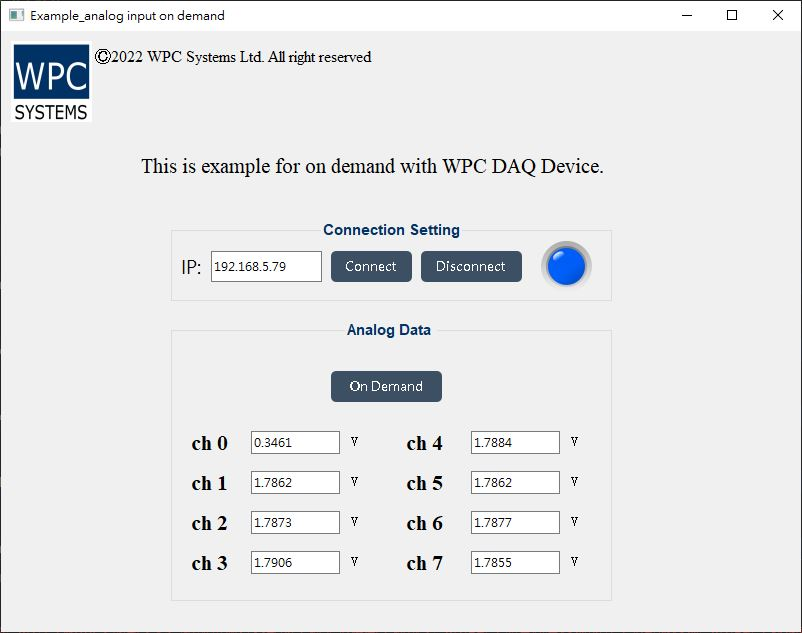
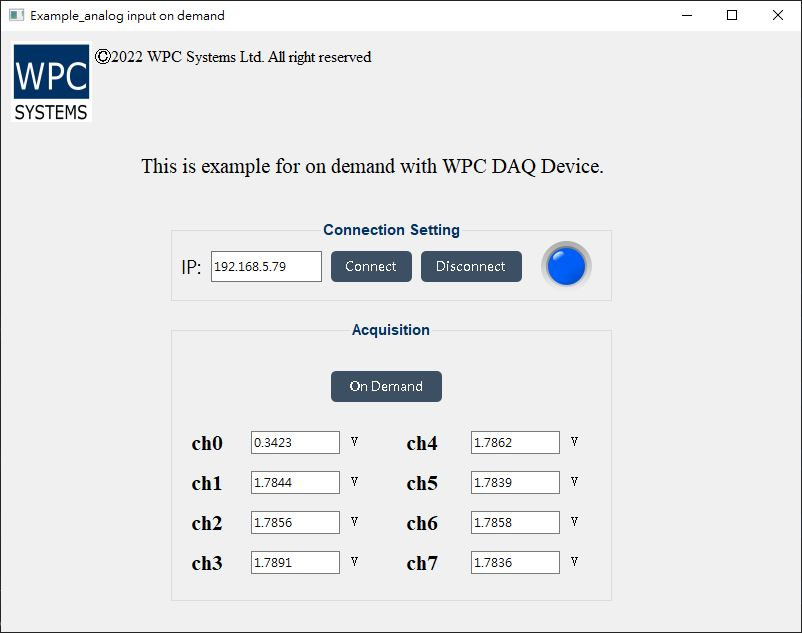
Update

diff --git a/Examples/GUI/AIO/Example_analog_input_on_demand/UI_design/Ui_example_GUI_AI_on_demand.py b/Examples/GUI/AIO/Example_analog_input_on_demand/UI_design/Ui_example_GUI_AI_on_demand.py
@@ -1113,14 +1113,14 @@ class Ui_MainWindow(object):
         self.btn_disconnect.setText(_translate("MainWindow", "Disconnect"))
         self.lb_rights.setText(_translate("MainWindow", " Ⓒ2022 WPC Systems Ltd. All right reserved"))
         self.lb_declare.setText(_translate("MainWindow", "This is example for on demand with WPC DAQ Device."))
-        self.lb_ch0.setText(_translate("MainWindow", "ch 0"))
-        self.lb_ch1.setText(_translate("MainWindow", "ch 1"))
-        self.lb_ch2.setText(_translate("MainWindow", "ch 2"))
-        self.lb_ch3.setText(_translate("MainWindow", "ch 3"))
-        self.lb_ch4.setText(_translate("MainWindow", "ch 4"))
-        self.lb_ch5.setText(_translate("MainWindow", "ch 5"))
-        self.lb_ch6.setText(_translate("MainWindow", "ch 6"))
-        self.lb_ch7.setText(_translate("MainWindow", "ch 7"))
+        self.lb_ch0.setText(_translate("MainWindow", "ch0"))
+        self.lb_ch1.setText(_translate("MainWindow", "ch1"))
+        self.lb_ch2.setText(_translate("MainWindow", "ch2"))
+        self.lb_ch3.setText(_translate("MainWindow", "ch3"))
+        self.lb_ch4.setText(_translate("MainWindow", "ch4"))
+        self.lb_ch5.setText(_translate("MainWindow", "ch5"))
+        self.lb_ch6.setText(_translate("MainWindow", "ch6"))
+        self.lb_ch7.setText(_translate("MainWindow", "ch7"))
         self.lineEdit_AI0.setText(_translate("MainWindow", "1.45"))
         self.lineEdit_AI1.setText(_translate("MainWindow", "1.45"))
         self.lineEdit_AI2.setText(_translate("MainWindow", "1.45"))
@@ -1138,4 +1138,4 @@ class Ui_MainWindow(object):
         self.lb_unit6.setText(_translate("MainWindow", "V"))
         self.lb_unit7.setText(_translate("MainWindow", "V"))
         self.btn_onDemand.setText(_translate("MainWindow", "On Demand"))
-        self.groupBox_connection_2.setTitle(_translate("MainWindow", "Analog Data "))
+        self.groupBox_connection_2.setTitle(_translate("MainWindow", "Acquisition"))
